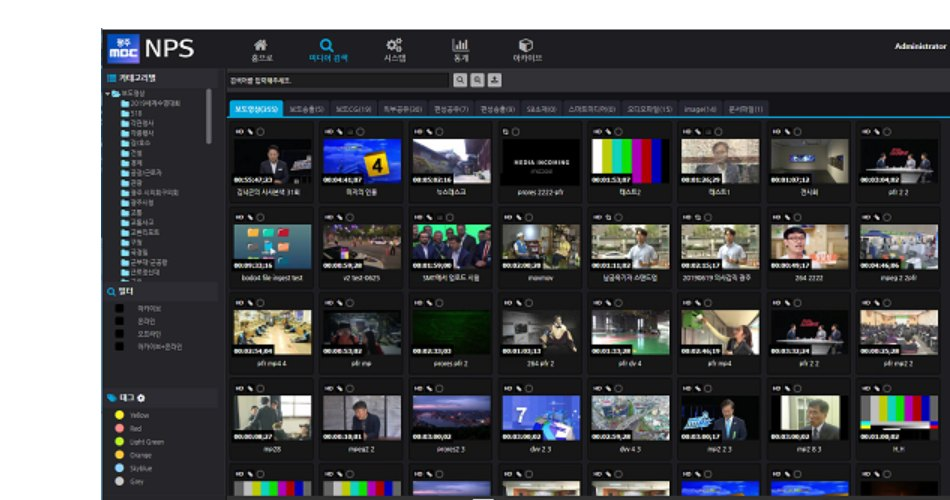
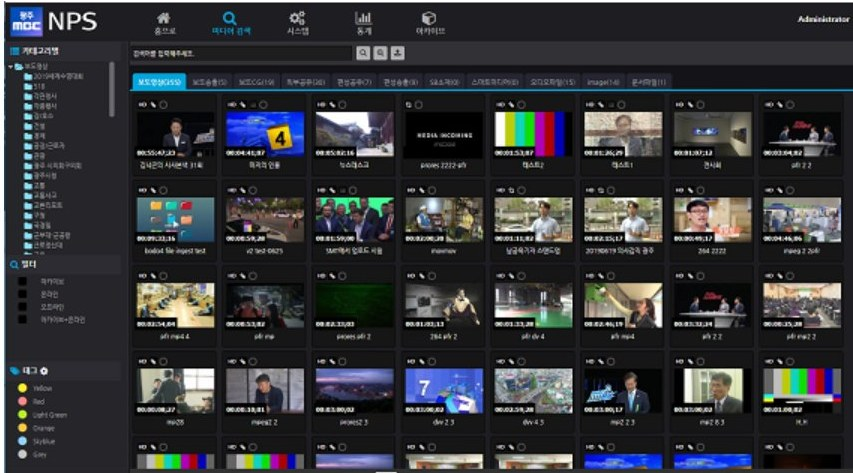
프로필은 얼굴이 가운데 오도록, 프로젝트 이미지는 여백 없이 채움

diff --git a/src/styles.css b/src/styles.css
@@ -33,7 +33,7 @@ h1, h2, h3 { font-weight: 700; line-height: 1.35; letter-spacing: -0.01em; }
 
 /* hero */
 .hero { display: flex; gap: 32px; align-items: center; }
-.hero-photo { width: 148px; height: 148px; border-radius: 50%; object-fit: cover; object-position: center 70%; flex-shrink: 0; }
+.hero-photo { width: 148px; height: 148px; border-radius: 50%; object-fit: cover; object-position: center; flex-shrink: 0; }
 .hero h1 { font-size: 34px; }
 .hero-title { font-size: 17px; font-weight: 500; color: var(--text-2); margin-top: 2px; }
 .hero-tagline { color: var(--text-2); margin-top: 10px; }
@@ -82,7 +82,7 @@ h1, h2, h3 { font-weight: 700; line-height: 1.35; letter-spacing: -0.01em; }
 /* case study */
 .case { padding-bottom: 48px; }
 .case + .case { padding-top: 48px; border-top: 1px solid var(--line); }
-.case-image { width: 100%; aspect-ratio: 16 / 9; border-radius: 8px; object-fit: cover; border: 1px solid var(--line); }
+.case-image { width: 100%; aspect-ratio: 16 / 9; border-radius: 8px; object-fit: cover; background: #111; display: block; }
 .case-head { margin-top: 22px; }
 .case-meta { font-size: 13px; color: var(--text-3); }
 .case-meta .dot { margin: 0 2px; }
